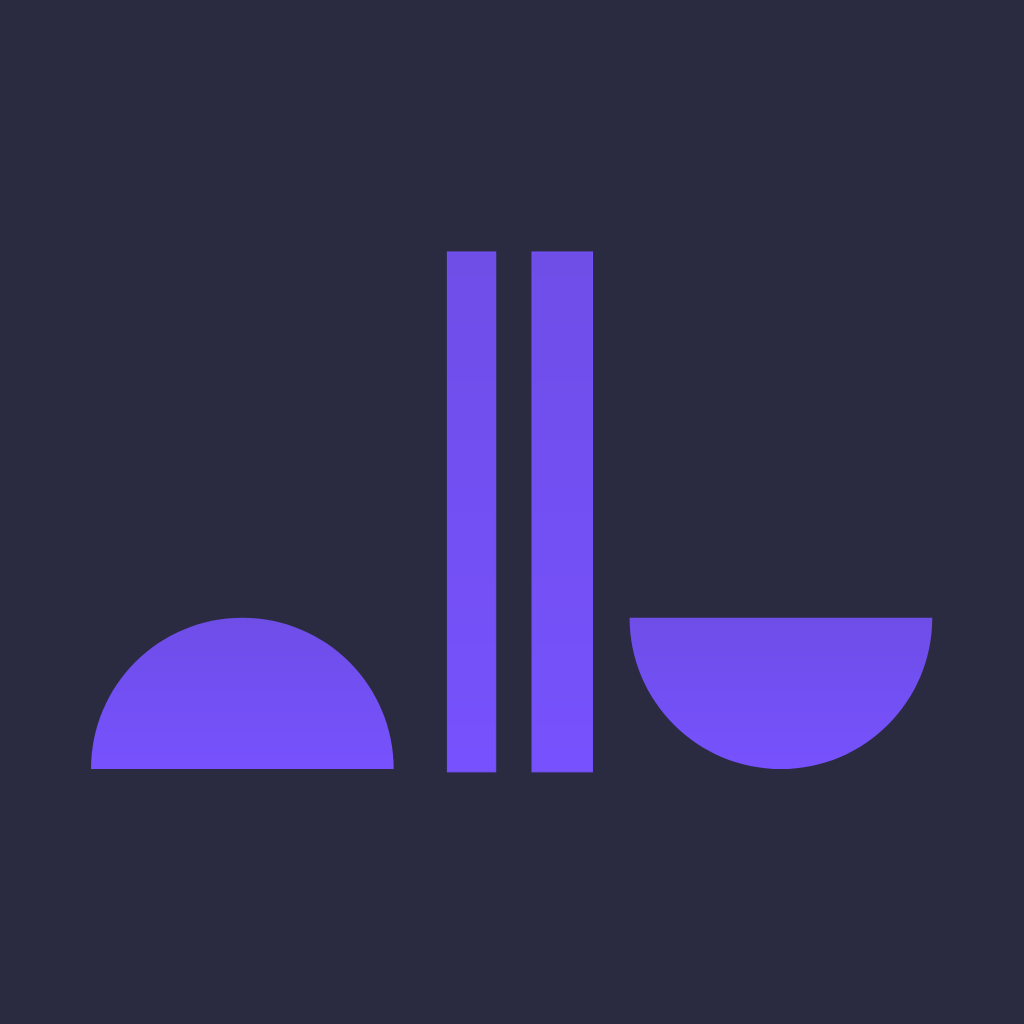
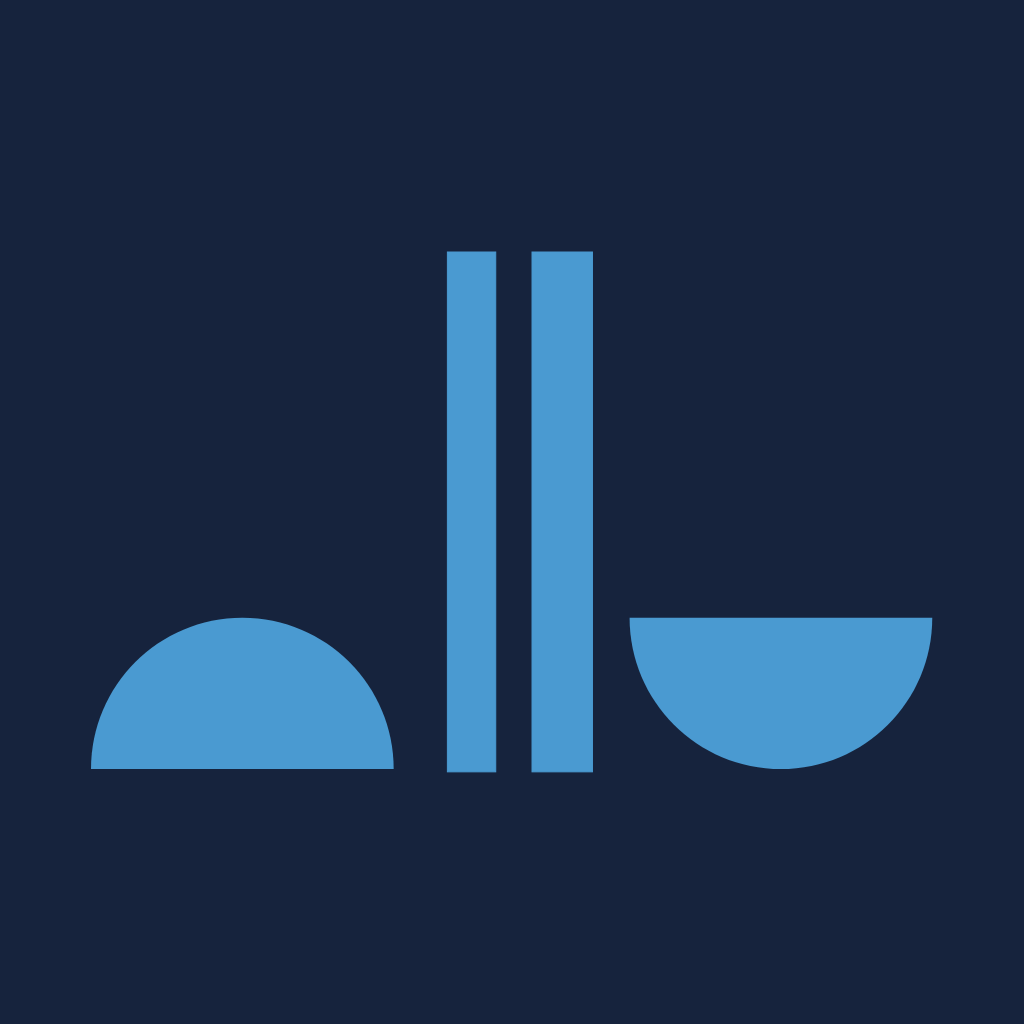
Altera cores para que fiquem mais parecidas com as do site do congresso
Closes #1

Changed region(s): [[0.4375, 0.2188, 0.9062, 0.7812], [0.0625, 0.5938, 0.4062, 0.75]]

diff --git a/constants/Colors.js b/constants/Colors.js
@@ -2,24 +2,35 @@ const heToRgba = require('hex-rgba')
 
 const colors = {
   transparent: 'transparent',
-  purple: '#6F4EE8',
-  brightPurple: '#7752FE',
-  darkPurple: '#36334A',
-  darkerPurple: '#2A2B40',
-  lightPurple: '#DDD9EE',
   white: '#fff',
   gray: '#797D80'
 }
 
-const styles = {
-  transparent: colors.transparent,
-  background: colors.darkerPurple,
-  tilesBackground: colors.darkPurple,
-  primaryColor: colors.brightPurple,
+const genericStyles = {
   text: colors.white,
-  bodyText: colors.lightPurple,
   tabIconDefault: colors.gray,
   tabIconSelected: colors.white
 }
 
-export default { ...colors, ...styles, rgba: heToRgba }
+const themes = {
+  purple: {
+    ...genericStyles,
+    primaryColor: '#7752FE',
+    background: '#2A2B40',
+    tilesBackground: '#36334A',
+    bodyText: '#DDD9EE'
+  },
+  blue: {
+    ...genericStyles,
+    primaryColor: '#4A9AD1',
+    background: '#0A142B',
+    tilesBackground: '#16233D',
+    bodyText: '#D2DCE7'
+  }
+}
+
+export default {
+  rgba: heToRgba,
+  ...colors,
+  ...themes.blue
+}
